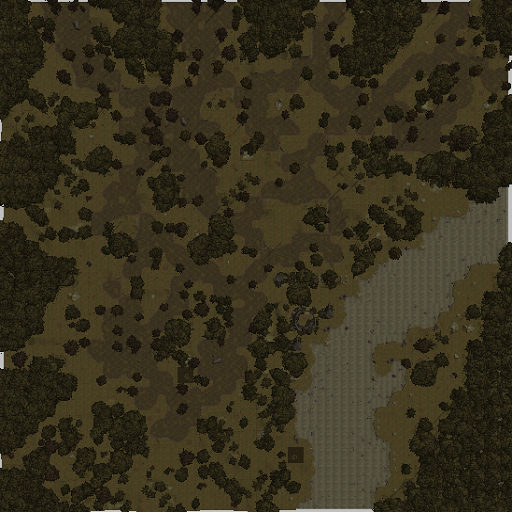
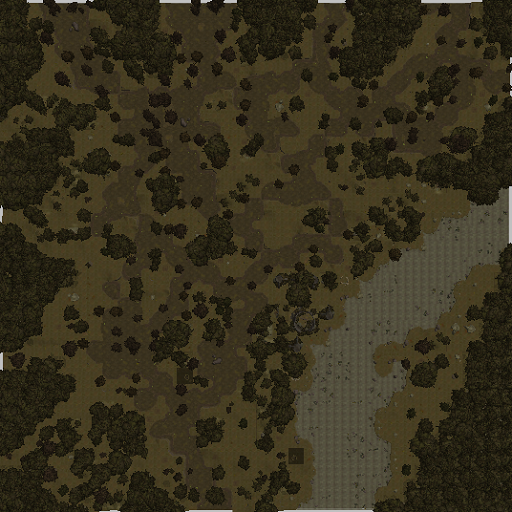
v120922

diff --git a/common.js b/common.js
@@ -24,8 +24,8 @@ var map = {
         '0map',          '0map',          '0map',          '0map',          '0map',            't_soldieroad_1',  't_saharkhan_sp',  't_sevenstar_rd',  't_sevenstar_hne', 't_brinniqdell_n', 't_brinniqwood_n', 't_ithmon_pipe_n', 't_ithmon_farm_nw','t_ithmon_farm_n', 't_ithmon_farm_ne','t_loransewood_n', 't_crownfarms_iw2','t_crownfarms_iw1','t_darromar',      't_foyen_rd',     't_foyen',        '0map',                '0map',            '0map',            '0IthalRoadNS',    '0map',         '0map',             '0map',         '0IthalRoadEN', 't_veaddakar',       
         '0map',          '0map',          '0map',          't_dasaajk',     '0map',            't_soldieroad_2',  't_jongrathroad11','t_sevenstar',     't_sevenstar_hse', 't_brinniqdell_s', 't_brinniqwood',   't_ithmon_pipe_s', 't_ithmon_farm_w', 't_ithmon_loranse','t_ithmon_farm_e', 't_loransewood_s', '0map',            't_clov_fld_nw',   't_clov_fld_itr_n','0map',           '0map',           '0map',                '0IthalRoadES',    '0IthalRoadWE',    '0IthalRoadWN',    '0map',         '0map',             '0map',         '0map',         '0map',       
         '0map',          't_vineshade',   '0map',          '0map',          '0map',            't_krennasar',     't_jongrathroad01','t_jongrathroad02','t_jongrath',      't_jongrathroad03','0map',            't_loranse_swamp', '0map',            '0map',            '0map',            '0map',            't_ruba',          '0IthalRoadWE',    't_clov_fld_itr_s','0IthalRoadWES',  '0IthalRoadWE',   '0IthalRoadWE',        '0IthalRoadNWS',   '0map',            '0map',            '0map',         '0map',             '0map',         '0map',         '0map',       
-        '0map',          '0map',          '0map',          't_redmills',    't_elem_solroad01','t_elem_solroa002','0map',            '0map',            '0map',            '0map',            '0map',            '0map',            '0map',            '0map',            '0map',            '0map',            '0IthalRoadNS',    '0map',            '0map',            't_abbor',        '0map',           '0map',                '0IthalRoadNES',   '0IthalRoadWE',    '0IthalRoadWE',    '0IthalRoadWE', '0IthalRoadWS',     '0map',         '0map',         '0map',       
-        '0map',          '0map',          '0map',          't_refields_n',  't_refields_ne',   't_riverith1',     't_riverith2',     '0map',            '0map',            '0map',            '0map',            '0map',            '0map',            '0map',            't_pelmarin',      '0IthalRoadWE',    '0IthalRoadWN',    '0map',            '0map',            '0map',           '0map',           '0map',                't_mistletoe',     '0map',            '0map',            '0map',         '0IthalRoadNES',    '0IthalRoadWE', '0IthalRoadWES','t_barakmordin',       
+        '0map',          '0map',          '0map',          't_redmills',    't_elem_solroad01','t_elem_solroa002','0map',            '0map',            '0map',            '0map',            't_riverith7',     't_riverith8',     '0map',            '0map',            '0map',            '0map',            '0IthalRoadNS',    '0map',            '0map',            't_abbor',        '0map',           '0map',                '0IthalRoadNES',   '0IthalRoadWE',    '0IthalRoadWE',    '0IthalRoadWE', '0IthalRoadWS',     '0map',         '0map',         '0map',       
+        '0map',          '0map',          '0map',          't_refields_n',  't_refields_ne',   't_riverith1',     't_riverith2',     't_riverith3',     't_riverith4',     't_riverith5',     't_riverith6',     '0map',            '0map',            '0map',            't_pelmarin',      '0IthalRoadWE',    '0IthalRoadWN',    '0map',            '0map',            '0map',           '0map',           '0map',                't_mistletoe',     '0map',            '0map',            '0map',         '0IthalRoadNES',    '0IthalRoadWE', '0IthalRoadWES','t_barakmordin',       
         '0map',          '0map',          't_myratma_w',   't_myratma_e',   't_refields_e',    '0IthalRoadWE',    '0IthalRoadWE',    't_maratimmir',    '0IthalRoadWE',    '0IthalRoadWE',    '0IthalRoadWE',    '0IthalRoadWES',   '0IthalRoadWE',    '0IthalRoadWE',    '0IthalRoadWN',    '0map',            '0map',            '0map',            '0map',            '0map',           '0map',           '0map',                '0map',            '0map',            '0map',            '0map',         '0IthalRoadNS',     '0map',         '0IthalRoadNS', '0map',       
         '0map',          '0map',          '0map',          '0map',          '0map',            '0map',            '0map',            '0map',            '0map',            '0map',            '0map',            't_fort_teqlar',   't_shoonach_ilt',  't_shoonach_run',  '0map',            '0map',            '0map',            '0map',            '0map',            '0map',           '0map',           '0map',                '0map',            '0map',            '0map',            't_magis_tor',  '0IthalRoadWN',     '0map',         '0IthalRoadNS', '0map',       
         '0map',          '0map',          '0map',          '0map',          '0map',            '0map',            '0map',            '0map',            '0map',            '0map',            't_shoonach_gaw',  '0map',            '0map',            '0map',            't_shoonach_deb',  '0map',            '0map',            '0map',            '0map',            '0map',           '0map',           '0map',                '0map',            '0map',            '0map',            '0map',         '0map',             '0map',         't_adarthir',   '0map',
